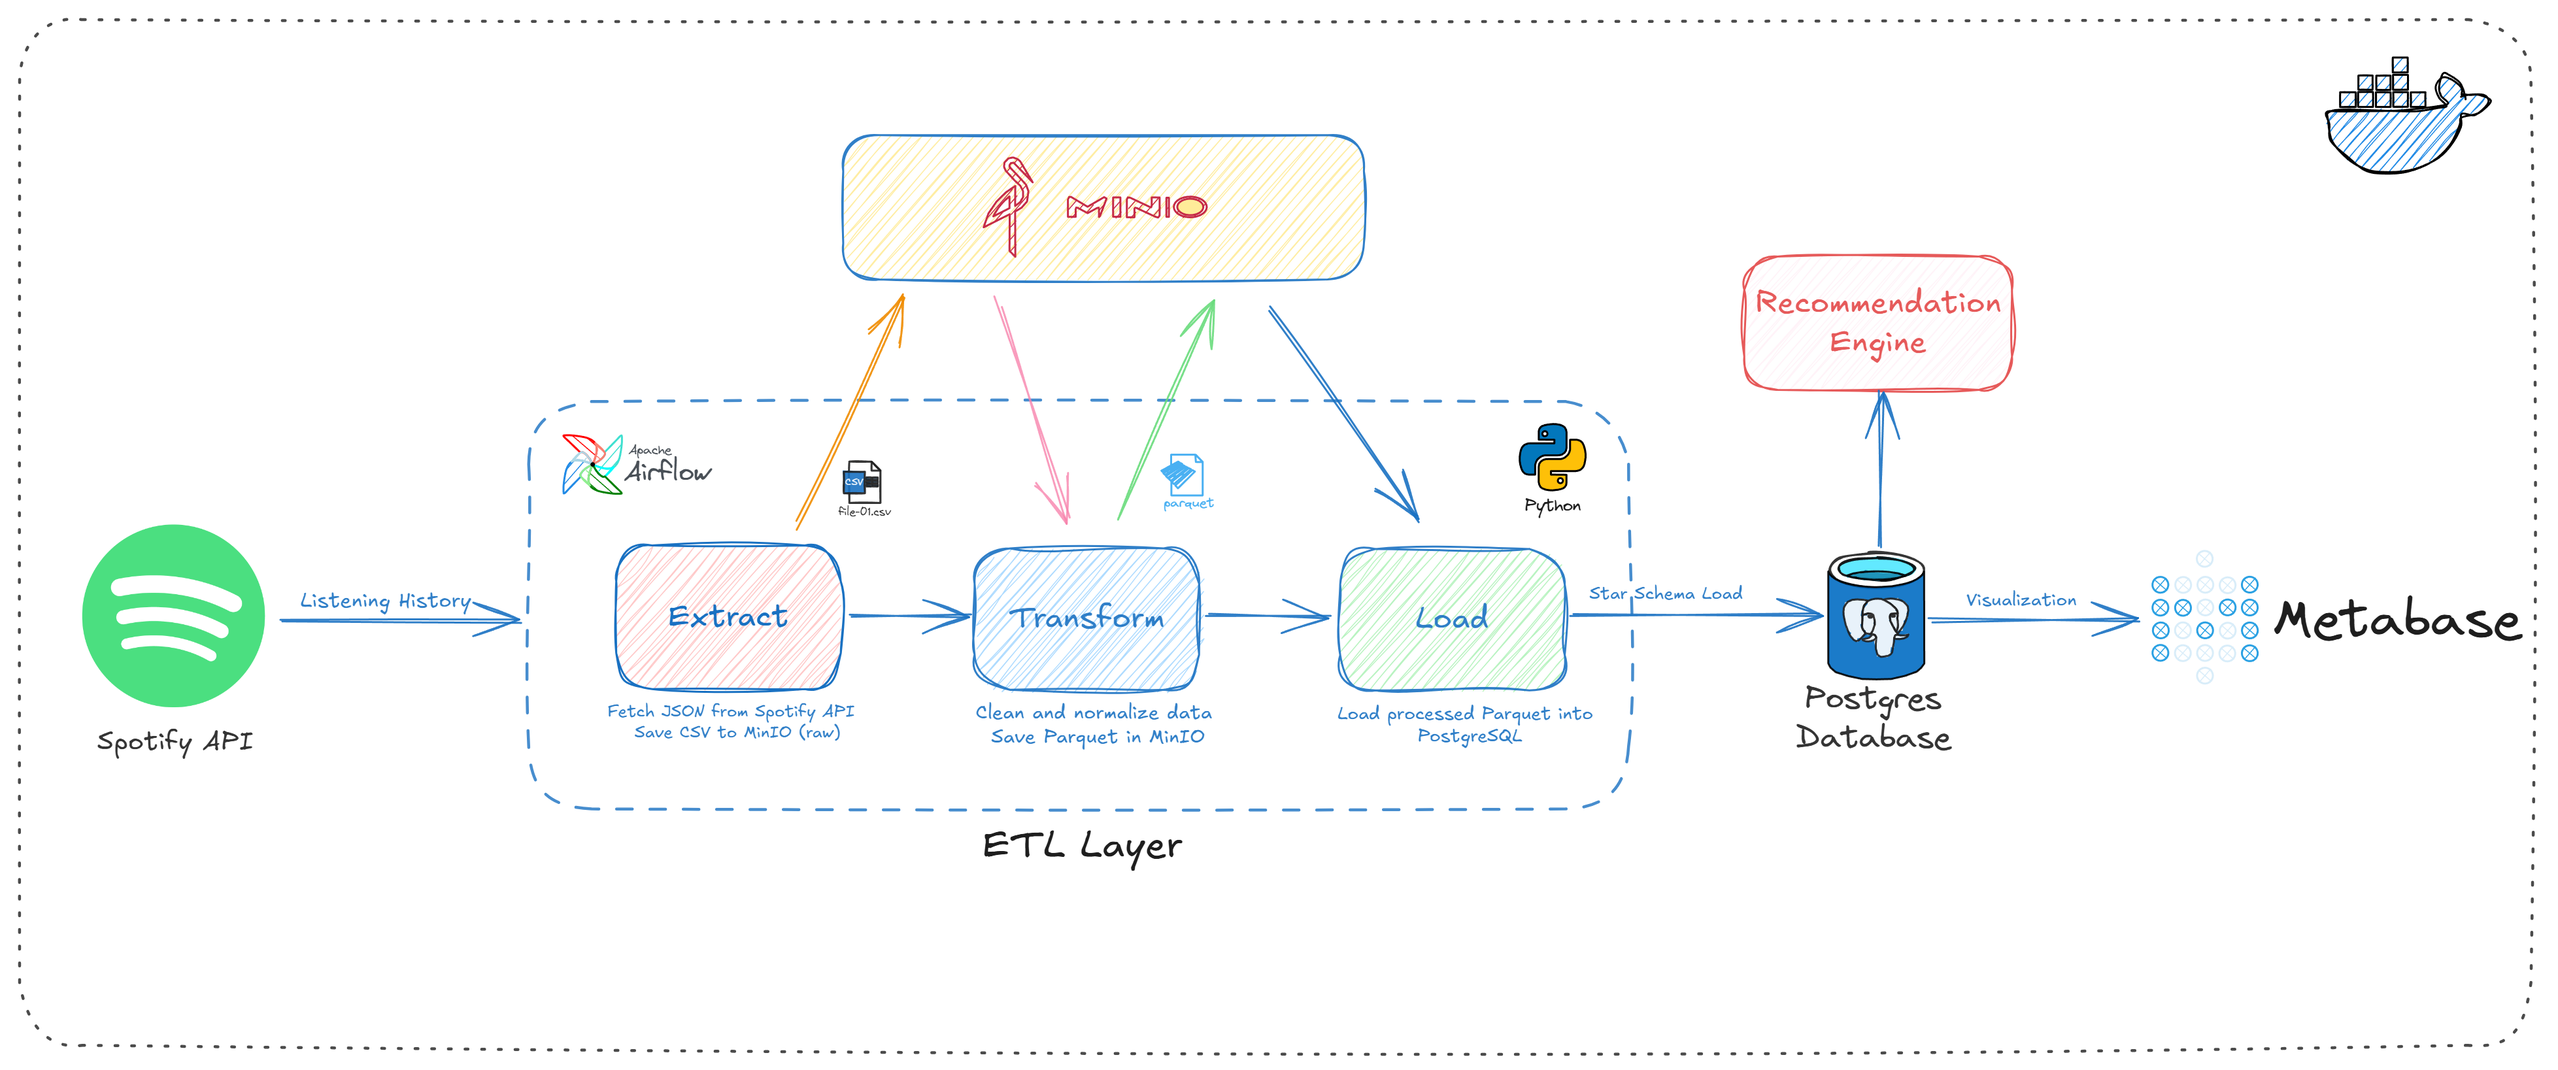
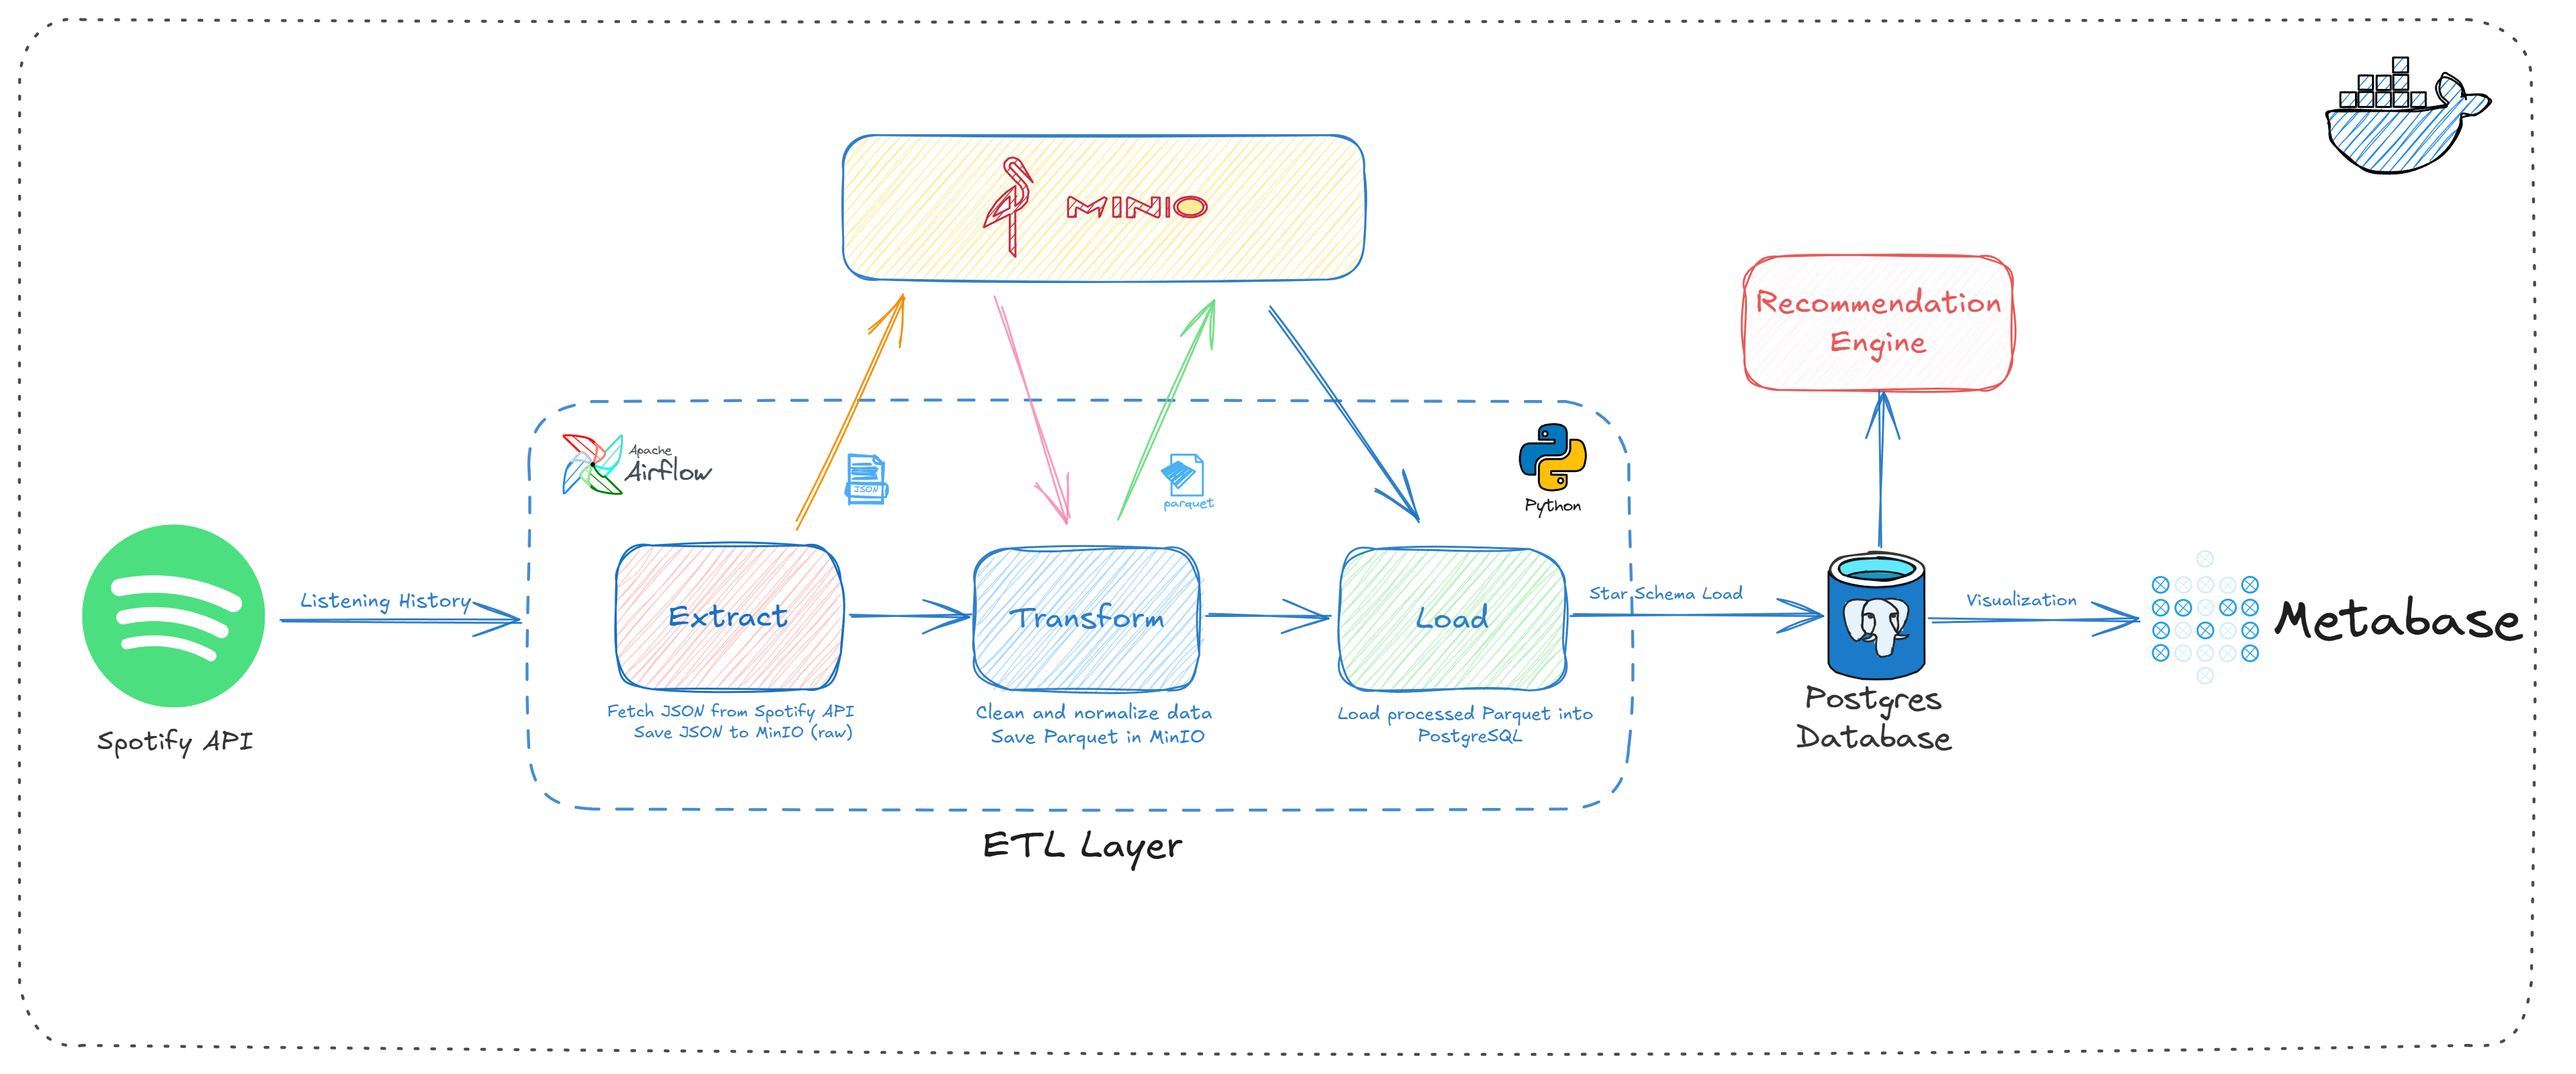
docs(readme): refresh architecture diagram, dashboard screenshot, and schema ERD

diff --git a/README.md b/README.md
@@ -59,7 +59,7 @@ spotify-etl-pipeline/
 
 **ETL Layer**
 
-- **Extract** – Fetch Spotify data and save raw CSV in **MinIO**.
+- **Extract** – Fetch Spotify data and save raw JSON in **MinIO**.
 - **Transform** – Clean and normalize data; save Parquet in **MinIO**.
 - **Load (Processed)**: Save processed data as Parquet in MinIO and load into PostgreSQL tables:
   - `dim_artist`
@@ -74,7 +74,7 @@ spotify-etl-pipeline/
 
 **MinIO (Object Storage)**
 
-- Stores raw JSON/CSV dumps and processed Parquet files.
+- Stores raw JSON dumps and processed Parquet files.
 - Ensures replayability, recovery, and reproducibility.
 
 **Metabase (Visualization)**
@@ -90,13 +90,15 @@ spotify-etl-pipeline/
 
 ## Pipeline Steps
 
-**Extract** – Fetch Spotify data and save raw CSV in **MinIO**.  
+**Extract** – Fetch Spotify data and save raw JSON in **MinIO**.  
 **Transform** – Clean and normalize data; save Parquet in **MinIO**.  
 **Load** – Load processed Parquet into **PostgreSQL** (`dim_artist`, `dim_song`, `dim_date`, `fact_play_summary`).  
 **Visualize** – Explore data with **Metabase**.  
 **Recommend** – Suggest tracks using audio features and listening history.
 
 ## Table Descriptions
+
+![Spotify Dashboard](assets/schema.png)
 
 ### Dimensions
 
@@ -138,7 +140,7 @@ Fill in:
 ## 📊 Dashboards
 
 Metabase visualizes:
-![Spotify Dashboard](assets/spotify_dashboard.png)
+![Spotify Dashboard](assets/dashboard.jpg)
 
 ---
 
